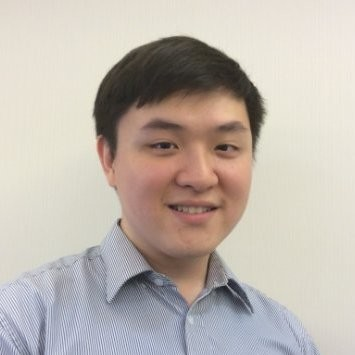
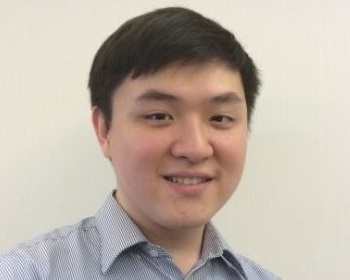
updated about me

Changed region(s): [[0.0, 0.0, 0.9143, 1.0]]

diff --git a/wwr/sharers/aboutme.html b/wwr/sharers/aboutme.html
@@ -33,7 +33,7 @@
                 <img class="aboutme_img" src="images/ansonlam.jpeg" alt="Anson Lam">
             </div>
             <div class="aboutme_box2">
-                <img class="aboutme_img" src="images/IMG_0589.jpeg" alt="Anson Lam's family">
+                <img class="aboutme_img" src="images/IMG_0586.jpeg" alt="Anson Lam's family">
             </div>
             <div class="aboutme_box3">
                 <p>I was born in Hong Kong, one of the most crowded cities in the world, and have been living in the high-density living environment over 30 years. It is always a headache for my family to keep our home tidy since we have a lot of stuffs but with limited spaces in our home. Thus, this was how the idea of "Sharers" came along.</p>

diff --git a/wwr/sharers/styles/style.css b/wwr/sharers/styles/style.css
@@ -191,24 +191,24 @@ b {
 .aboutme-grid {
     display: grid;
     grid-template-columns: repeat(20, 1fr);
-    grid-template-rows: repeat(30, 40px);
+    grid-template-rows: repeat(26, 40px);
 }
 .aboutme_box1 {
-    grid-column: 4/10;
-    grid-row-start: 4;
+    grid-column: 2/11;
+    grid-row: 2/17;
 }
 .aboutme_box2 {
-    grid-column: 12/18;
-    grid-row-start: 3;
+    grid-column: 11/20;
+    grid-row: 2/17;
 }
 .aboutme_box3 {
     grid-column: 2/20;
-    grid-row: 21/30;
+    grid-row: 17/26;
     background: #4E7E7E;
     padding: 40px;
 }
 .aboutme_img {
-    /* padding: 10px; */
+    padding: 10px;
     width: 100%;
 }
 
